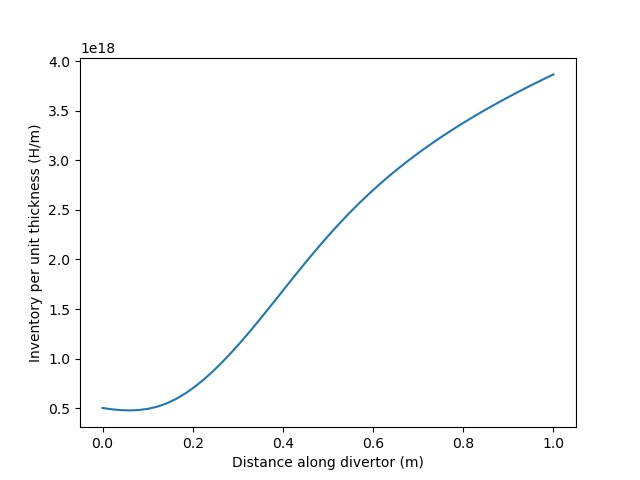
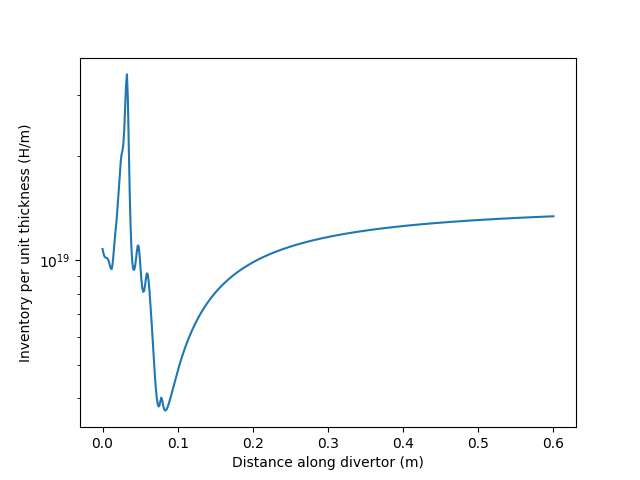
new basic example

diff --git a/docs/source/introduction.rst b/docs/source/introduction.rst
@@ -20,14 +20,16 @@ Basic usage
    import numpy as np
    from divHretention import compute_inventory
 
-   arc_length = np.linspace(0, 1)  # arc length (m) along the divertor
-   T = 1100*np.exp(-arc_length)  # temperature (K) profile
-   concentration = 1e20*np.exp(-arc_length)  # surface concentration (H m-3)
+
+   x = np.linspace(0, 0.6, num=500)  # arc length (m) along the divertor
+   T = 320 + 1000*np.exp(-50*x)
+   concentration = 5e21*np.exp(-50*x)  # surface concentration (H m-3)
 
    # compute the inventory (H/m) and standard deviation at 10 000s
    inv, sig = compute_inventory(T, concentration, time=1e4)
 
-   plt.plot(arc_length, inv)
+   plt.plot(x, inv)
+   plt.yscale("log")
    plt.xlabel("Distance along divertor (m)")
    plt.ylabel("Inventory per unit thickness (H/m)")
    plt.show()
